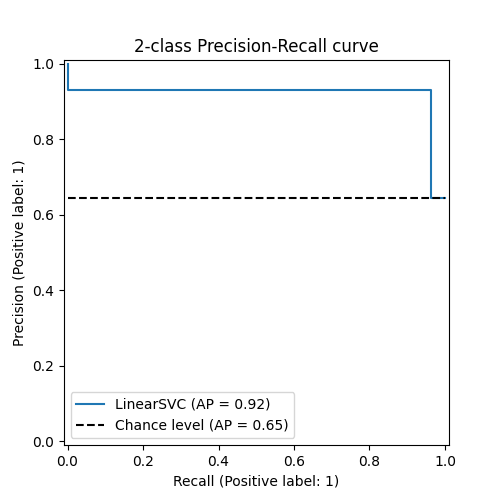
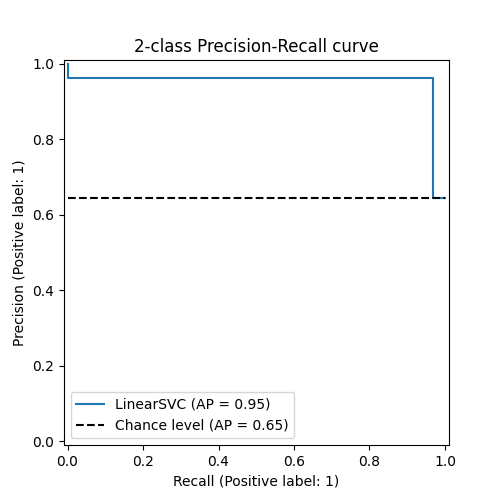
updated template file extension

Changed region(s): [[0.12, 0.15, 0.87, 0.39], [0.51, 0.78, 0.54, 0.81]]

diff --git a/src/analyzer.py b/src/analyzer.py
@@ -54,7 +54,7 @@ class Analyzer:
         connectMD.MDConnection(
             target_class=self,
             target_members=connectMD.getmembers(self, locals(), "params"),
-            read_file=f"{self.STABLE_ROOT_DIR}/templates/comparison.md",
+            read_file=f"{self.STABLE_ROOT_DIR}/templates/comparison.conmd",
             write_file=f"{self.STABLE_ROOT_DIR}/.AI_analyzer/comparisons/{model_name1}-{model_name2}.md",
             connect=True
         )
@@ -91,7 +91,7 @@ class Analyzer:
         connectMD.MDConnection(
             target_class=self,
             target_members=connectMD.getmembers(self, locals(), "params"),
-            read_file=f"{self.STABLE_ROOT_DIR}/templates/overview.md",
+            read_file=f"{self.STABLE_ROOT_DIR}/templates/overview.conmd",
             write_file=f"{self.STABLE_ROOT_DIR}/.AI_analyzer/{self.MODEL_NAME}/result.md",
             connect=True
         )
@@ -210,7 +210,7 @@ class Analyzer:
                 "MSE": round(mean_squared_error(y_true, y_pred), 3), # Average of all elements
                 "MAE": round(mean_absolute_error(y_true, y_pred), 3),
                 "RMSE": round(root_mean_squared_error(y_true, y_pred), 3),
-                "MEPA": round(mean_absolute_percentage_error(y_true, y_pred), 3),
+                "MAPE": round(mean_absolute_percentage_error(y_true, y_pred), 3),
                 "log-loss": round(log_loss(y_true, y_pred), 3),
                 "R-Squared": round(r2_score(y_true, y_pred), 3), # Ignore this silly error
             }

diff --git a/.AI_analyzer/comparisons/1.0-1.1.md b/.AI_analyzer/comparisons/1.0-1.1.md
@@ -11,18 +11,18 @@
 
 
 ## Score Comparison
-| Type      | Score 1.0     | Score 1.1     | Offset                                                       |
+| Type      | Score 1.0     | Score 1.1     | Offset                                              |
 |-----------|-----------------------------|-----------------------------|-----------------------------------------------------|
-| Accuracy  | 0.93 | 0.93 | 0.0 |
-| Precision | 0.932 | 0.932 | 0.0 |
-| Recall    | 0.962 | 0.962 | 0.0 |
-| F1-Score  | 0.947 | 0.947 | 0.0 |
-| MSE       | 0.07 | 0.07 | 0.0 |
-| MAE       | 0.07 | 0.07 | 0.0 |
-| RMSE      | 0.265 | 0.265 | 0.0 |
-| MEPA      | 205427351423917.38 | 205427351423917.38 | 0.0 |
-| Log Loss  | 2.529 | 2.529 | 0.0 |
-| R-Squared | 0.693 | 0.693 | 0.0 |
+| Accuracy  | 0.954 | 0.954 | 0.0 |
+| Precision | 0.962 | 0.962 | 0.0 |
+| Recall    | 0.967 | 0.967 | 0.0 |
+| F1-Score  | 0.965 | 0.965 | 0.0 |
+| MSE       | 0.046 | 0.046 | 0.0 |
+| MAE       | 0.046 | 0.046 | 0.0 |
+| RMSE      | 0.214 | 0.214 | 0.0 |
+| MAPE      | 110614727689801.66 | 110614727689801.66 | 0.0 |
+| Log Loss  | 1.644 | 1.644 | 0.0 |
+| R-Squared | 0.801 | 0.801 | 0.0 |
 
 
 

diff --git a/.AI_analyzer/1.0/result.md b/.AI_analyzer/1.0/result.md
@@ -10,16 +10,16 @@
 ## Score
 | Type      | Score                         |
 |-----------|-------------------------------|
-| Accuracy  |  0.93    |
-| Precision |  0.932    |
-| Recall    |  0.962    |
-| F1-Score  |  0.947    |
-| MSE       |  0.07    |
-| MAE       |  0.07    |
-| RMSE      |  0.265    |
-| MEPA      |  205427351423917.38    |
-| log-loss  |  2.529    |
-| R-Squared |  0.693    |
+| Accuracy  |  0.954    |
+| Precision |  0.962    |
+| Recall    |  0.967    |
+| F1-Score  |  0.965    |
+| MSE       |  0.046    |
+| MAE       |  0.046    |
+| RMSE      |  0.214    |
+| MAPE      |  110614727689801.66    |
+| Log Loss  |  1.644    |
+| R-Squared |  0.801    |
 
 
 

diff --git a/.AI_analyzer/1.1/result.md b/.AI_analyzer/1.1/result.md
@@ -10,16 +10,16 @@
 ## Score
 | Type      | Score                         |
 |-----------|-------------------------------|
-| Accuracy  |  0.93    |
-| Precision |  0.932    |
-| Recall    |  0.962    |
-| F1-Score  |  0.947    |
-| MSE       |  0.07    |
-| MAE       |  0.07    |
-| RMSE      |  0.265    |
-| MEPA      |  205427351423917.38    |
-| log-loss  |  2.529    |
-| R-Squared |  0.693    |
+| Accuracy  |  0.954    |
+| Precision |  0.962    |
+| Recall    |  0.967    |
+| F1-Score  |  0.965    |
+| MSE       |  0.046    |
+| MAE       |  0.046    |
+| RMSE      |  0.214    |
+| MAPE      |  110614727689801.66    |
+| Log Loss  |  1.644    |
+| R-Squared |  0.801    |
 
 
 
